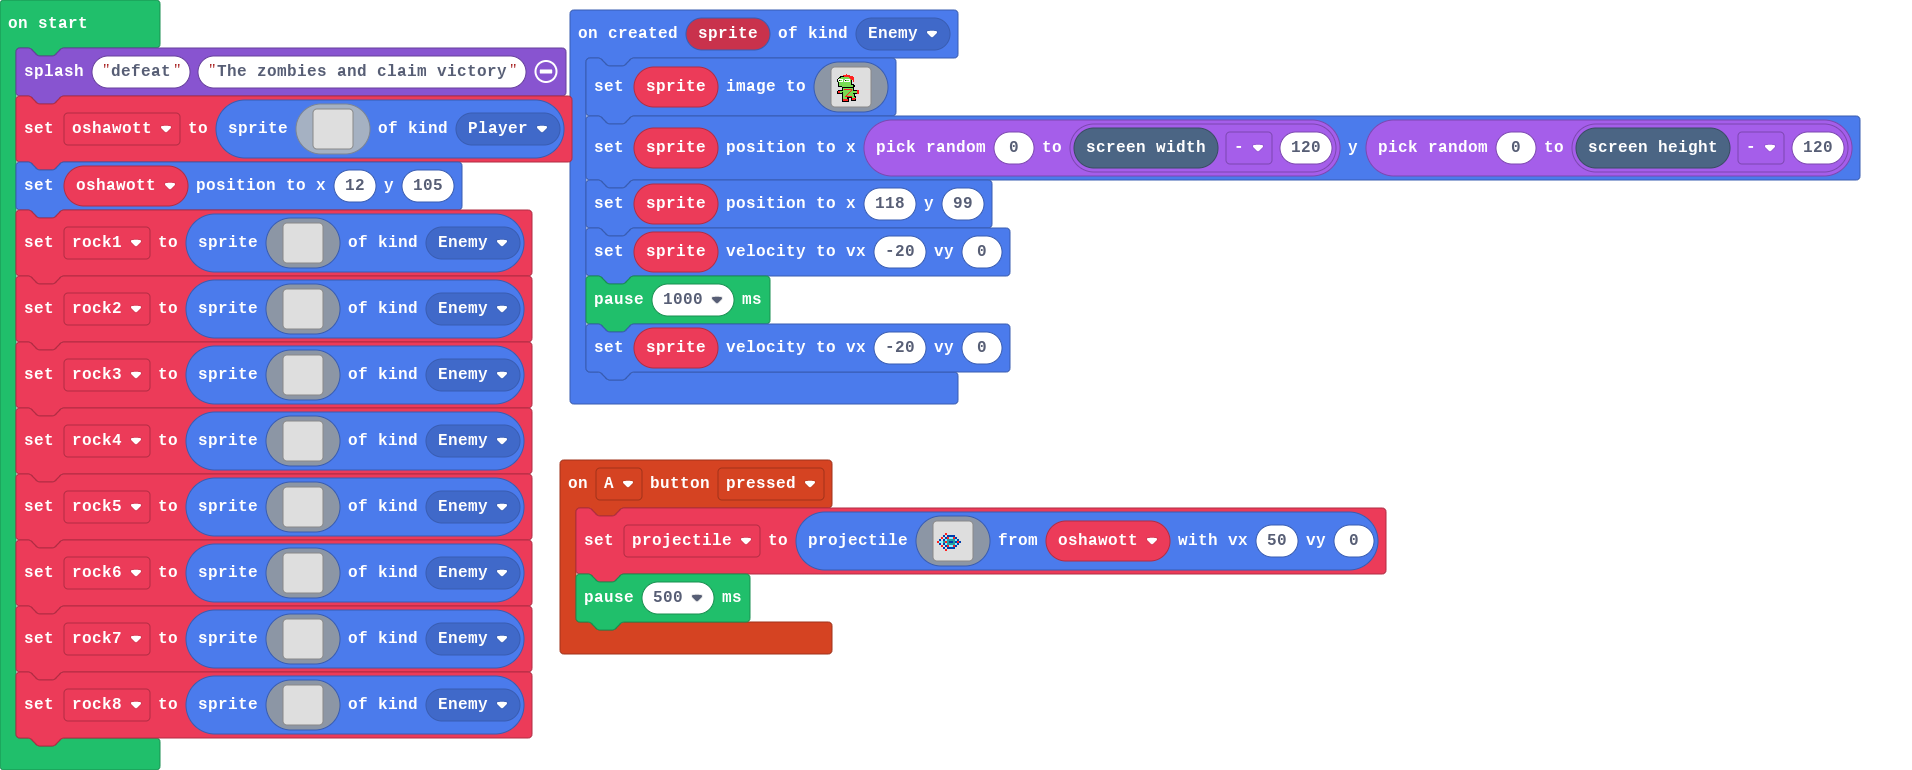
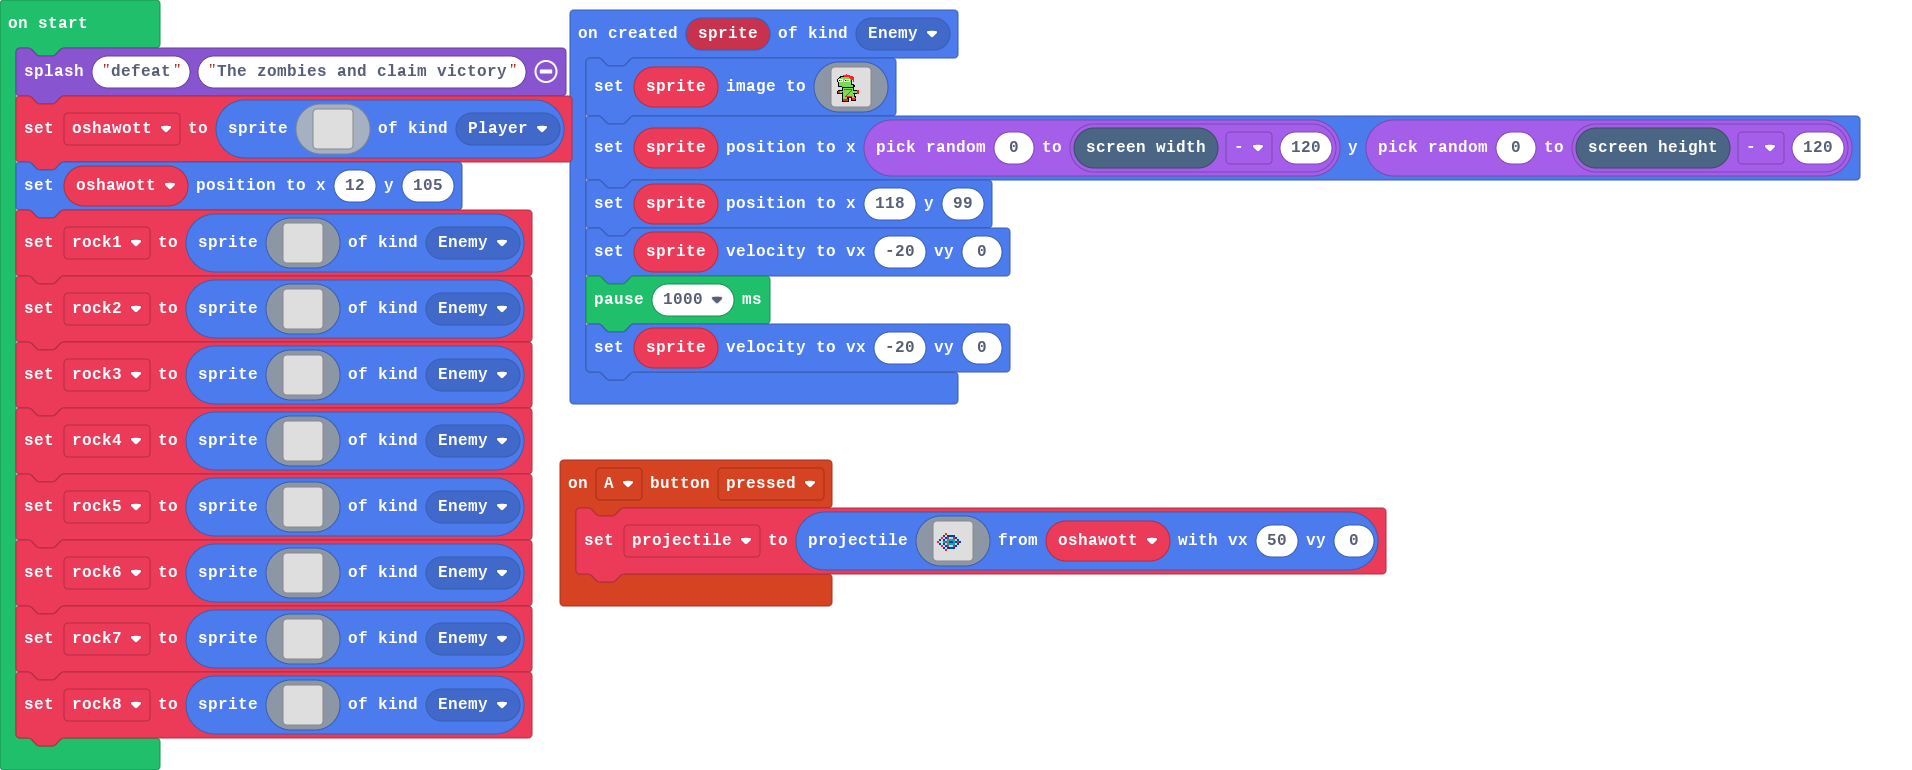
Update main.blocks, main.ts

Changed region(s): [[0.2777, 0.7169, 0.4629, 0.8727]]

diff --git a/main.ts b/main.ts
@@ -61,7 +61,6 @@ controller.A.onEvent(ControllerButtonEvent.Pressed, function () {
         . . . . . . . . . . . . . . . . 
         . . . . . . . . . . . . . . . . 
         `, oshawott, 50, 0)
-    pause(500)
 })
 let projectile: Sprite = null
 let oshawott: Sprite = null
